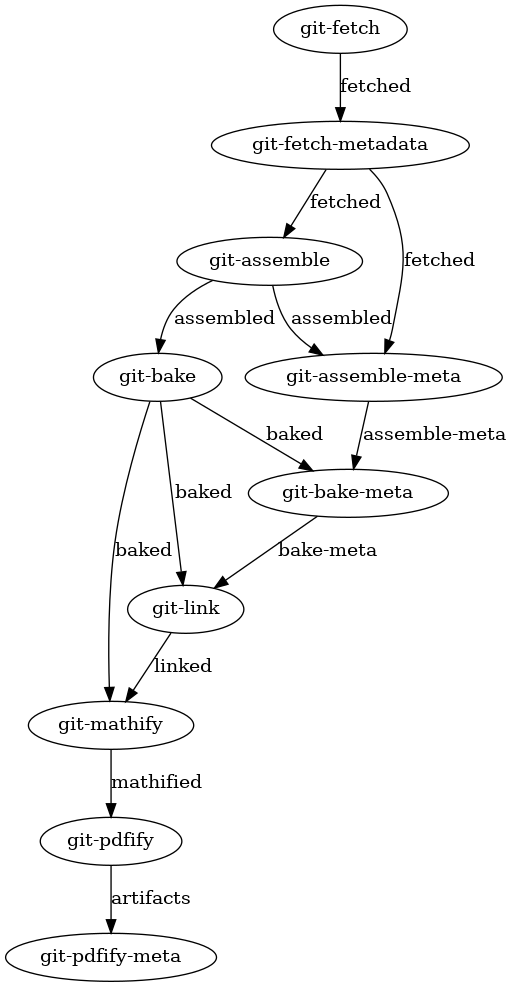
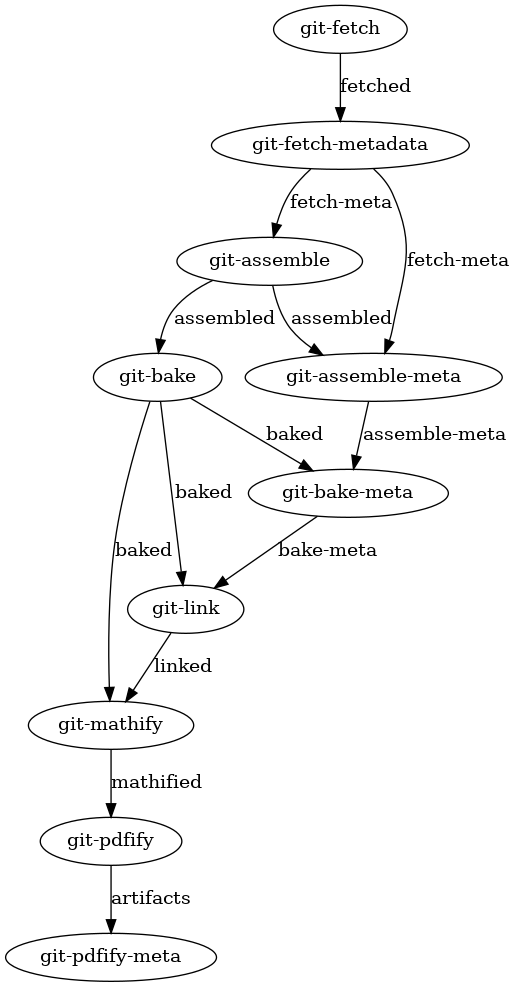
:art: clean up dependency graph

diff --git a/build-concourse/step-definitions.ts b/build-concourse/step-definitions.ts
@@ -37,9 +37,9 @@ STEP_MAP.set('archive-validate-xhtml', {name: 'archive-validate-xhtml', inputs: 
 
 // GIT_PDF_STEPS
 STEP_MAP.set('git-fetch', {name: 'git-fetch', inputs: [IO.BOOK], outputs: [IO.FETCHED], env: {GH_SECRET_CREDS: false}})
-STEP_MAP.set('git-fetch-metadata', {name: 'git-fetch-metadata', inputs: [IO.BOOK, IO.FETCHED], outputs: [IO.FETCHED, IO.RESOURCES, IO.UNUSED_RESOURCES], env: {}})
-STEP_MAP.set('git-assemble', {name: 'git-assemble', inputs: [IO.BOOK, IO.FETCHED], outputs: [IO.ASSEMBLED], env: {ARG_OPT_ONLY_ONE_BOOK: false}})
-STEP_MAP.set('git-assemble-meta', {name: 'git-assemble-meta', inputs: [IO.BOOK, IO.FETCHED, IO.ASSEMBLED], outputs: [IO.ASSEMBLE_META], env: {ARG_OPT_ONLY_ONE_BOOK: false}})
+STEP_MAP.set('git-fetch-metadata', {name: 'git-fetch-metadata', inputs: [IO.BOOK, IO.FETCHED], outputs: [IO.FETCH_META, IO.RESOURCES, IO.UNUSED_RESOURCES], env: {}})
+STEP_MAP.set('git-assemble', {name: 'git-assemble', inputs: [IO.BOOK, IO.FETCH_META], outputs: [IO.ASSEMBLED], env: {ARG_OPT_ONLY_ONE_BOOK: false}})
+STEP_MAP.set('git-assemble-meta', {name: 'git-assemble-meta', inputs: [IO.BOOK, IO.ASSEMBLED], outputs: [IO.ASSEMBLE_META], env: {ARG_OPT_ONLY_ONE_BOOK: false}})
 STEP_MAP.set('git-bake', {name: 'git-bake', inputs: [IO.BOOK, IO.ASSEMBLED], outputs: [IO.BAKED], env: {ARG_OPT_ONLY_ONE_BOOK: false}})
 STEP_MAP.set('git-bake-meta', {name: 'git-bake-meta', inputs: [IO.BOOK, IO.ASSEMBLE_META, IO.BAKED], outputs: [IO.BAKE_META], env: {ARG_OPT_ONLY_ONE_BOOK: false}})
 STEP_MAP.set('git-link', {name: 'git-link', inputs: [IO.BOOK, IO.BAKED, IO.BAKE_META], outputs: [IO.LINKED], env: {ARG_OPT_ONLY_ONE_BOOK: false}})

diff --git a/build-concourse/util.ts b/build-concourse/util.ts
@@ -92,6 +92,7 @@ export enum IO {
 
     // Git directories
     FETCHED = 'fetched', // 'fetched-book-group'
+    FETCH_META = 'fetch-meta',
     RESOURCES = 'resources',
     UNUSED_RESOURCES = 'unused-resources',
     ASSEMBLED = 'assembled', // 'assembled-book-group',
